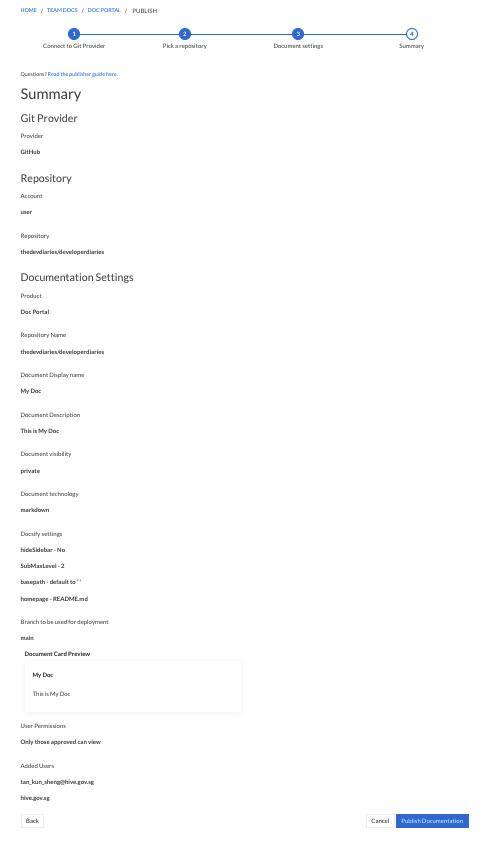
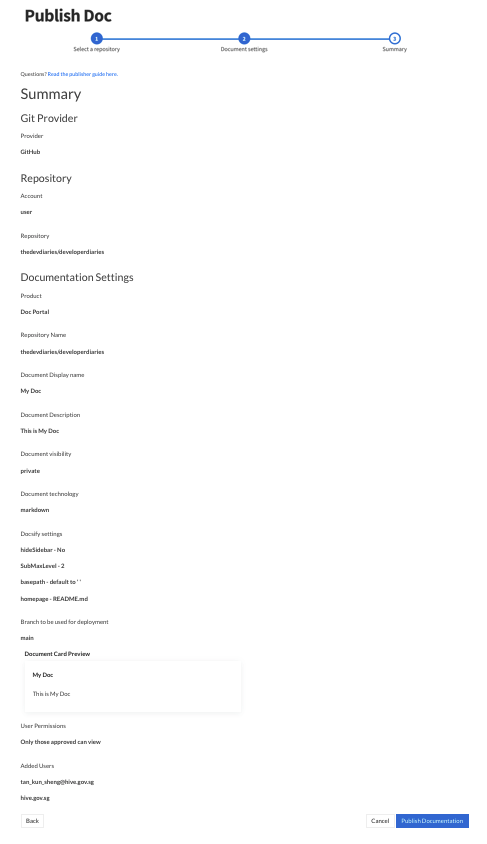
updated the doc with gitlab flows and new Ui changes

Changed region(s): [[0.0308, 0.0, 0.8624, 0.0616]]

diff --git a/get-started.md b/get-started.md
@@ -114,10 +114,11 @@ You can then navigate to http://localhost:8080 to preview your rendered API docu
 
 <!-- tabs:end -->
 
-<!-- tabs:start Push to Git-->
-
 ### 2. Push to Git Repo
-### **2a. Push GitHub**
+<!-- tabs:start -->
+#### **Push to GitHub**
+<!-- ##### 2a. Push to GitHub -->
+
 After your Markdown or OpenAPI documentation is prepared, push it to GitHub.
 
 [Create a new github.com repository](https://github.com/new) (this can be either public or private) and follow
@@ -136,48 +137,29 @@ git push -u origin master
 >
 >For **OpenAPI/Swagger Docs**, you should use a YAML (.yml or .yaml extension) or JSON (.json extension) file.
 
-### **1b. Push to GitLabc**
+#### **Push to GitLab**
 
-From the [official OpenAPI specification site](https://swagger.io/specification):
-
-> The OpenAPI Specification (OAS) defines a standard, language-agnostic interface to RESTful APIs which allows both humans and computers to discover and understand the capabilities of the service without access to source code, documentation, or through network traffic inspection.
->
-> An OpenAPI document (or set of documents) defines or describes an API. An OpenAPI definition uses and conforms to the OpenAPI Specification.
-
-You can define an OpenAPI or Swagger document in `yaml` or `json` and publish that on the developer documentation portal. It would be rendered as a human-readable page using the [ReDoc](https://github.com/Redocly/redoc) engine.
-
-#### Preview OpenAPI
-You can use the [redoc CLI](https://github.com/Redocly/redoc/tree/master/cli) to preview how your API documentation would look like. You will need to have Node.js and NPM installed on your machine. Use the [official installer](https://nodejs.org/en/) or the [nvm tool](https://github.com/nvm-sh/nvm).
-
-```bash
-npm i -g redoc-cli
-redoc-cli serve swagger.yml
-```
-
-You can then navigate to http://localhost:8080 to preview your rendered API documentation:
-
-![openapi documentation with redoc screenshot](assets/redoc-preview.png)
-
-<!-- tabs:end -->
-
-<!-- ### 2. Push to GitHub
 After your Markdown or OpenAPI documentation is prepared, push it to GitHub.
 
-[Create a new github.com repository](https://github.com/new) (this can be either public or private) and follow
-the instructions on GitHub to push your new repository to that project.
+[Create a new sgts.gitlab-dedicated.com repository](https://sgts.gitlab-dedicated.com/projects/new) (this can be either public or private) and follow
+the instructions on GitLab to push your new repository to that project.
 
 ```bash
 # Either SSH authentication
-git remote add origin git@github.com/my-username/my-project.git
+git remote add origin git@sgts.gitlab-dedicated.com/group/my-project.git
 # Or HTTP
-git remote add origin https://github.com/my-username/my-project.git
+git remote add origin https://sgts.gitlab-dedicated.com/group/my-project.git
 
 # Push to the master branch of your GitHub project
 git push -u origin master
 ```
 >For **Markdown Docs**, your home page defaults to your `README.md` file at the **root** of your project.
 >
->For **OpenAPI/Swagger Docs**, you should use a YAML (.yml or .yaml extension) or JSON (.json extension) file. -->
+>For **OpenAPI/Swagger Docs**, you should use a YAML (.yml or .yaml extension) or JSON (.json extension) file.
+
+
+
+<!-- tabs:end -->
 
 ### 3. Log in and access your Product space
 
@@ -193,23 +175,46 @@ Select the Product of which you are intending to publish documentation for, then
 
 ### 4. Publish your documentation with the guided Publishing Wizard
 
+<!-- ##### 2a. Push to GitHub -->
 The publishing wizard will guide you through the steps required to get your documentation published.
 #### Step 1. Select a Git Provider
+<!-- tabs:start -->
+##### **Select GitHub**
 
 ![Select Repo](assets/new-publishing/select-git.png)
 
-In this step, you select a git provider (only GitHub available for now, but more options are coming soon!) and authorise your account to the documentation service with the necessary permissions to perform publishing.
+In this step, you select a git provider (only GitHub & GitLab available for now, but more options are coming soon!) and authorise your account to the documentation service with the necessary permissions to perform publishing.
 
 If this is your first time publishing a document, and you have not authorised your GitHub account to us before, you will be prompted to do so when you click next.
 
+##### **Select GitLab**
+
+![Select Repo](assets/new-publishing/select-git-gitlab.png)
+
+In this step, you select a git provider (only GitHub & GitLab available for now, but more options are coming soon!) and authorise your account to the documentation service with the necessary permissions to perform publishing.
+
+If this is your first time publishing a document, and you have not authorised your GitLab account to us before, you will be prompted to do so when you click next.
+
+<!-- tabs:end -->
+
 #### Step 2. Select a Repository
+<!-- tabs:start -->
+##### **Select GitHub Repository**
 
 <div style="text-align:center">
-   <img src="assets/new-publishing/select-repo.png"/>
+   <img src="assets/new-publishing/select-repo-github.png"/>
 </div>
 
 In this step, you select a repository from your GitHub account to link up to your to-be published documentation. Your personal repositories along with the repositories of any organisation/teams of which your GitHub account is an admin of, will be available for selection. You can toggle these options under the 'Account' dropdown selection.
 
+##### **Select GitLab Repository**
+
+<div style="text-align:center">
+   <img src="assets/new-publishing/select-repo-gitlab.png"/>
+</div>
+
+In this step, you select a repository from your GitLab account to link up to your to-be published documentation. Your personal repositories along with the repositories of any organisation/teams of which your GitLab account is an admin of, will be available for selection. You can toggle these options under the 'Groups' dropdown selection.
+<!-- tabs:end -->
 #### Step 3. Enter Document Details
 
 <div style="text-align:center">

diff --git a/_sidebar.md b/_sidebar.md
@@ -1,5 +1,5 @@
 * [Overview](/)
-* Get started(get-started)
+* [Get started](get-started)
 * Advanced features
   * [Diagrams with Mermaid](advanced/mermaid)
   * [Publishing settings](advanced/publishing-settings)
